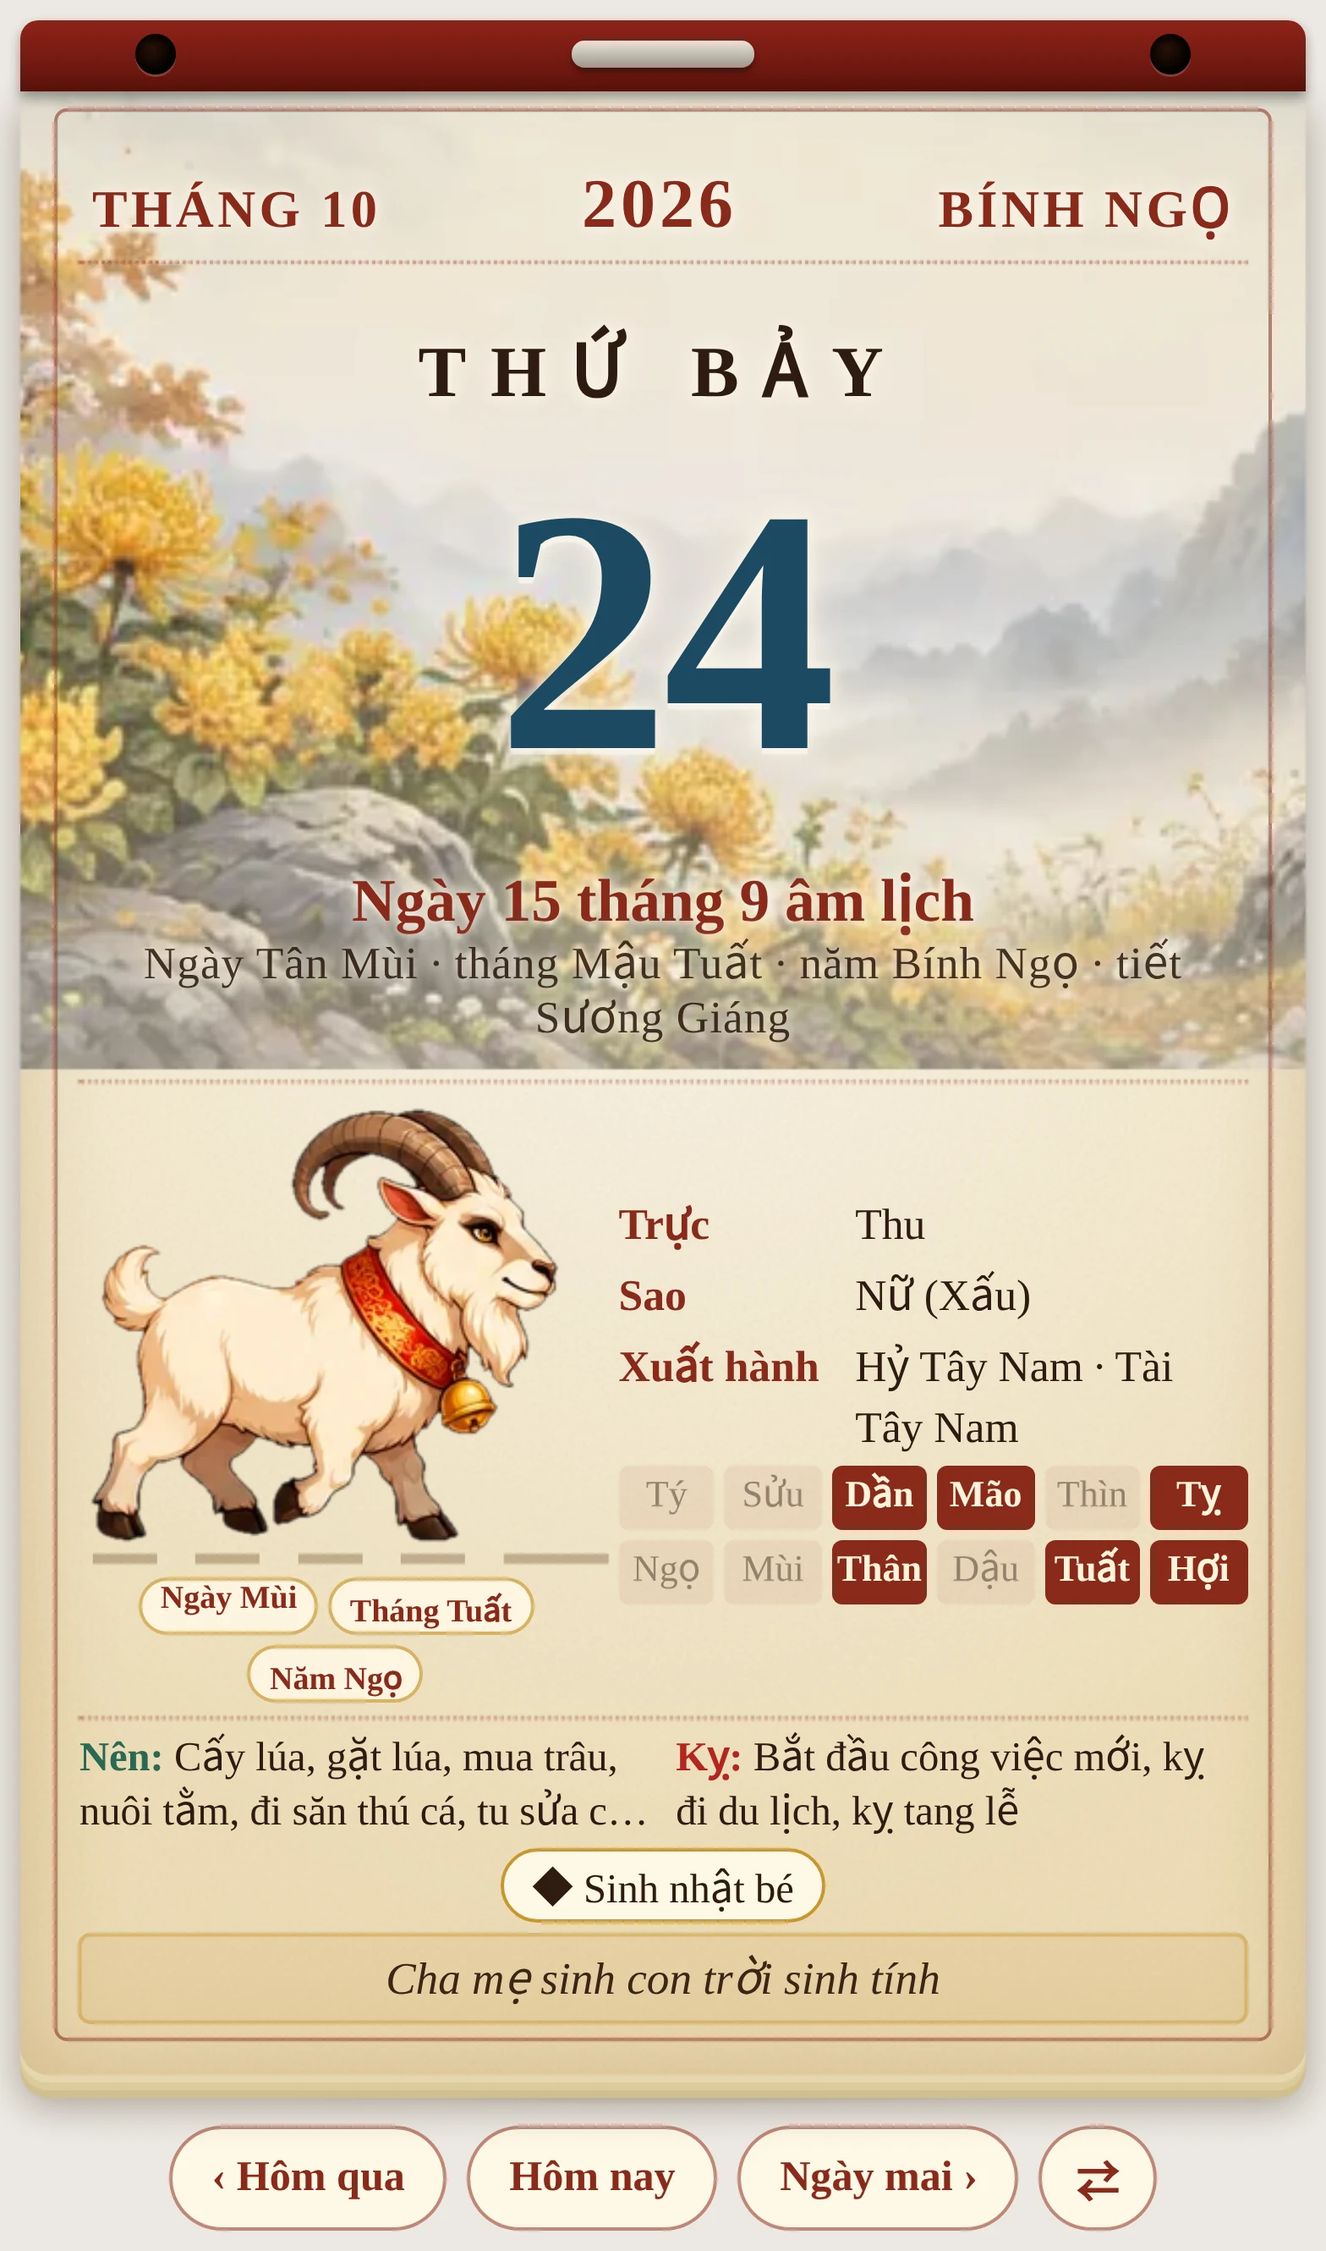
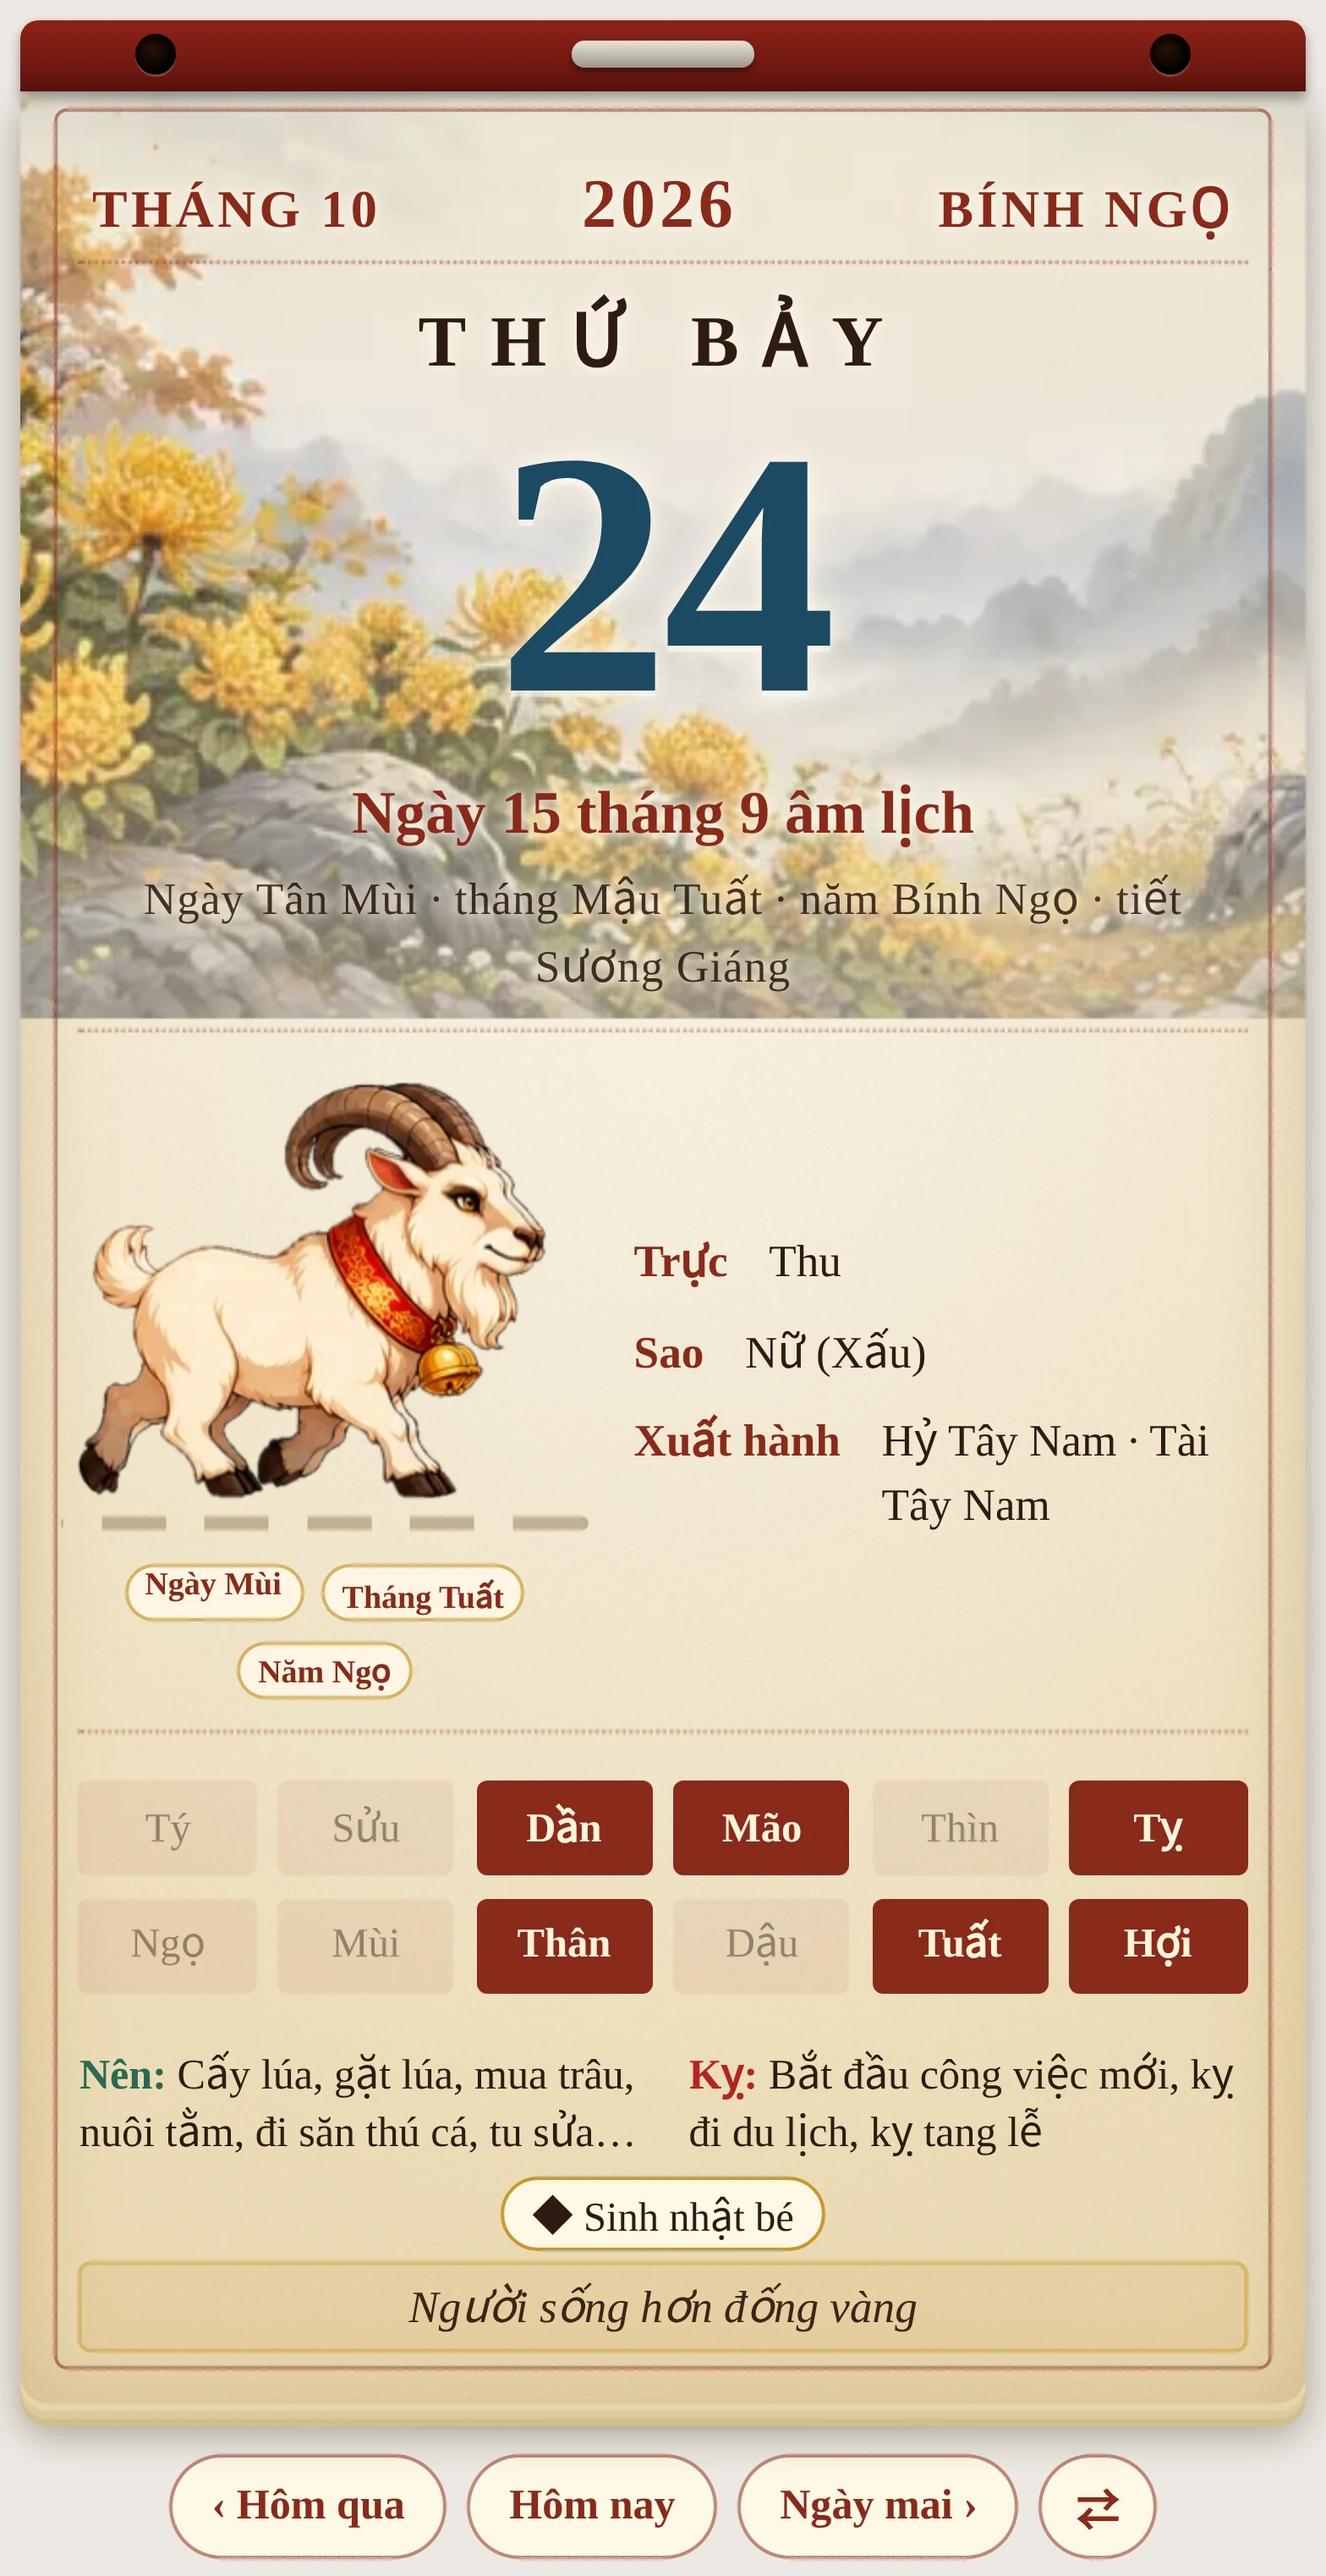
Thẻ: bước đi chậm hẳn (4 khung/giây, mờ chuyển giữa khung) và bố cục giãn hơn
- Con vật đi bộ 4 khung/giây (một vòng 3 giây), ngựa 7; hai lớp sprite lệch một khung và mờ chuyển 1/fps giây để chậm mà vẫn mượt.
- 12 ô giờ hoàng đạo ra hàng riêng rộng cả tờ, chữ căn giữa theo cả hai chiều.
- Khoảng cách giữa số ngày, dòng âm lịch, cột con vật, nhãn thông tin, Nên/Kỵ, ngày lễ và ca dao đều tăng.

Claude-Session: https://claude.ai/code/session_01RuPofRMvzvZPPPoDv3dRha

diff --git a/custom_components/lich_viet/frontend/lich-bloc-xua-card.js b/custom_components/lich_viet/frontend/lich-bloc-xua-card.js
@@ -11,10 +11,10 @@ import { CHI_KHOA, TEN_THU, THU_CSS, veConGiap } from './lich-bloc-xua-thu.js';
 
 const THU_ANH = {
   // mọi sprite sheet: lưới cot × hang khung, phát theo thứ tự; fps là tốc độ khi «chạy»
-  // fps = số khung mỗi giây; chu kỳ 12 khung = 12/fps giây (đi bộ ~2 giây một vòng, ngựa phi ~1,3 giây). Có thể nhân thêm bằng cấu hình toc_do.
-  ngo: { cot: 4, hang: 3, fps: 9 }, ty: { cot: 4, hang: 3, fps: 6 }, suu: { cot: 4, hang: 3, fps: 5 }, dan: { cot: 4, hang: 3, fps: 6 },
-  mao: { cot: 4, hang: 3, fps: 6 }, thin: { cot: 4, hang: 3, fps: 6 }, ran: { cot: 4, hang: 3, fps: 6 }, mui: { cot: 4, hang: 3, fps: 6 },
-  than: { cot: 4, hang: 3, fps: 6 }, ga: { cot: 4, hang: 3, fps: 6 }, cho: { cot: 4, hang: 3, fps: 6 }, heo: { cot: 4, hang: 3, fps: 6 },
+  // fps = số khung mỗi giây; chu kỳ 12 khung = 12/fps giây (đi bộ ~3 giây một vòng, ngựa phi ~1,7 giây). Giữa hai khung có mờ chuyển (crossfade) nên chậm mà vẫn mượt. Có thể nhân thêm bằng cấu hình toc_do.
+  ngo: { cot: 4, hang: 3, fps: 7 }, ty: { cot: 4, hang: 3, fps: 4 }, suu: { cot: 4, hang: 3, fps: 3.5 }, dan: { cot: 4, hang: 3, fps: 4 },
+  mao: { cot: 4, hang: 3, fps: 4 }, thin: { cot: 4, hang: 3, fps: 4 }, ran: { cot: 4, hang: 3, fps: 4 }, mui: { cot: 4, hang: 3, fps: 4 },
+  than: { cot: 4, hang: 3, fps: 4 }, ga: { cot: 4, hang: 3, fps: 4 }, cho: { cot: 4, hang: 3, fps: 4 }, heo: { cot: 4, hang: 3, fps: 4 },
 };
 const GOC = new URL("./thu/", import.meta.url).href;
 const GOC_NEN = new URL("./nen/", import.meta.url).href;
@@ -60,15 +60,23 @@ const gioHienTai = (gio, now) => { const h = now.getHours(); return gio.find((g)
 
 // ---------- hình con giáp: sprite WebP (nếu có), không thì bộ vector dự phòng ----------
 let _uid = 0;
-function keyframesSprite(ten, cot, hang) {
+function keyframesSprite(ten, cot, hang, dich = 0) {
   const n = cot * hang; let s = `@keyframes ${ten}{`;
   for (let i = 0; i < n; i++) {
-    const c = i % cot, r = Math.floor(i / cot);
+    const j = (i + dich) % n, c = j % cot, r = Math.floor(j / cot);
     s += `${(i * 100 / n).toFixed(3)}%{background-position:${cot > 1 ? (c * 100 / (cot - 1)).toFixed(2) : 0}% ${hang > 1 ? (r * 100 / (hang - 1)).toFixed(2) : 0}%}`;
   }
   return s + "}";
 }
-const SPRITE_CSS = Object.entries(THU_ANH).map(([k, v]) => keyframesSprite("sp-" + k, v.cot, v.hang)).join("\n") + `
+const SPRITE_CSS = Object.entries(THU_ANH).map(([k, v]) => keyframesSprite("sp-" + k, v.cot, v.hang) + keyframesSprite("spn-" + k, v.cot, v.hang, 1)).join("\n") + `
+.spx{position:relative;display:block;width:100%}
+.spx>i{position:absolute;inset:0;background-image:var(--bg);background-size:var(--bs);background-repeat:no-repeat;background-position:0 0}
+.spx>i.b{opacity:0}
+.spx.chay>i.a{animation:var(--spa) var(--sd) step-end infinite}
+.spx.chay>i.b{animation:var(--spb) var(--sd) step-end infinite,spx-ramp var(--ft) linear infinite}
+.spx:not(.chay){animation:sp-tho 4.4s ease-in-out infinite;transform-origin:50% 100%}
+.dung .spx>i,.spx.dung>i{animation-play-state:paused}
+@keyframes spx-ramp{from{opacity:0}to{opacity:1}}
 .sp:not(.chay){animation:sp-tho 4.4s ease-in-out infinite;transform-origin:50% 100%}
 .sp{display:block;width:100%;background-repeat:no-repeat;background-position:0 0;image-rendering:auto}
 .sp.chay{animation-name:var(--sp);animation-duration:var(--sd);animation-iteration-count:infinite;animation-timing-function:step-end}
@@ -92,7 +100,8 @@ async function hinhThu(khoa, chay, heSo = 1) {
   const sp = await dongSprite(khoa);
   if (sp) {
     const c = THU_ANH[khoa], n = c.cot * c.hang;
-    return `<div class="sp${chay ? " chay" : ""}" style="aspect-ratio:${sp.rong}/${sp.cao};background-image:url('${GOC}${khoa}.webp');background-size:${c.cot * 100}% ${c.hang * 100}%;--sp:sp-${khoa};--sd:${(n / (c.fps * (+heSo > 0 ? +heSo : 1))).toFixed(3)}s" role="img" aria-label="${esc(TEN_THU[khoa] || "")}"></div>`;
+    const fk = c.fps * (+heSo > 0 ? +heSo : 1);
+    return `<div class="spx${chay ? " chay" : ""}" style="aspect-ratio:${sp.rong}/${sp.cao};--bg:url('${GOC}${khoa}.webp');--bs:${c.cot * 100}% ${c.hang * 100}%;--sd:${(n / fk).toFixed(3)}s;--ft:${(1 / fk).toFixed(3)}s;--spa:sp-${khoa};--spb:spn-${khoa}" role="img" aria-label="${esc(TEN_THU[khoa] || "")}"><i class="a"></i><i class="b"></i></div>`;
   }
   return `<div class="thu ${chay ? "di" : "nghi"}">${veConGiap(khoa, "u" + ++_uid)}</div>`;
 }
@@ -126,11 +135,11 @@ button{font:inherit;color:inherit}
 .dau-to{display:flex;justify-content:space-between;align-items:baseline;font-weight:700;letter-spacing:.07em;color:var(--vien);font-size:4.1cqw;text-transform:uppercase;padding:0 1cqw;border-bottom:.35cqw dotted rgba(138,42,28,.5);padding-bottom:1.1cqw}
 .dau-to b{font-size:5.4cqw;letter-spacing:.06em}
 .thu-ngay{text-align:center;font-weight:800;letter-spacing:.34em;color:var(--muc);font-size:5.6cqw;margin-top:.6cqw;text-transform:uppercase}
-.so{text-align:center;font-family:"Playfair Display","Noto Serif Display","Bodoni MT",Georgia,serif;font-weight:900;font-size:27cqw;line-height:29cqw;height:29cqw;margin-bottom:1.6cqw;font-variant-numeric:lining-nums;color:#241710;text-shadow:0 .5cqw 0 rgba(255,255,255,.55),0 -.2cqw 0 rgba(0,0,0,.18);letter-spacing:-.02em;margin:-.4cqw 0 0}
+.so{text-align:center;font-family:"Playfair Display","Noto Serif Display","Bodoni MT",Georgia,serif;font-weight:900;font-size:27cqw;line-height:29cqw;height:29cqw;margin-bottom:4cqw;font-variant-numeric:lining-nums;color:#241710;text-shadow:0 .5cqw 0 rgba(255,255,255,.55),0 -.2cqw 0 rgba(0,0,0,.18);letter-spacing:-.02em;margin:-.4cqw 0 0}
 .so.do{color:var(--do)}.so.t7{color:#1d4a63}
 .am{text-align:center;font-size:4.7cqw;font-weight:700;color:var(--vien);line-height:1.25}
-.am small{display:block;font-size:3.5cqw;font-weight:500;color:var(--muc);opacity:.85;letter-spacing:.02em}
-.le{margin:.4cqw auto 0;padding:.5cqw 3cqw;border-radius:99px;background:var(--do);color:#fff3d6;font-size:3.5cqw;font-weight:700;letter-spacing:.04em;text-align:center;max-width:92%}
+.am small{display:block;margin-top:1.4cqw;line-height:1.45;font-size:3.5cqw;font-weight:500;color:var(--muc);opacity:.85;letter-spacing:.02em}
+.le{margin:2.4cqw auto 1cqw;padding:.5cqw 3cqw;border-radius:99px;background:var(--do);color:#fff3d6;font-size:3.5cqw;font-weight:700;letter-spacing:.04em;text-align:center;max-width:92%}
 .cot-thu{display:flex;flex-direction:column;align-self:end;min-width:0}
 .cot-thu .canh-thu{align-self:stretch}
 .phan-tren{position:relative;flex:1 1 auto;margin:-5.8cqw -4.6cqw 0;padding:7cqw 4.6cqw 1.6cqw;display:flex;flex-direction:column;justify-content:space-between;gap:.8cqw;background-color:rgba(246,237,214,.0);background-size:cover;background-position:center;border-radius:1.4cqw 1.4cqw 0 0}
@@ -138,25 +147,25 @@ button{font:inherit;color:inherit}
 .phan-tren .dau-to,.phan-tren .thu-ngay,.phan-tren .am,.phan-tren .am small,.phan-tren .le{text-shadow:0 0 .7cqw rgba(252,246,232,1),0 0 1.6cqw rgba(252,246,232,.95),0 0 3cqw rgba(252,246,232,.8)}
 .phan-tren .so{text-shadow:0 0 1.2cqw rgba(252,246,232,1),0 0 3cqw rgba(252,246,232,.9),0 .5cqw 0 rgba(255,255,255,.5)}
 .phan-tren>*{position:relative}
-.khung-thu{position:relative;flex:0 0 auto;min-height:0;display:grid;grid-template-columns:44% 1fr;gap:2cqw;align-items:end;border-top:.35cqw dotted rgba(138,42,28,.45);border-bottom:.35cqw dotted rgba(138,42,28,.45);padding:1cqw 0}
-.canh-thu{position:relative;align-self:end;overflow:visible;padding-bottom:1.2cqw}
+.khung-thu{position:relative;flex:0 0 auto;min-height:0;display:grid;grid-template-columns:42% 1fr;gap:5cqw;align-items:end;border-top:.35cqw dotted rgba(138,42,28,.45);border-bottom:.35cqw dotted rgba(138,42,28,.45);padding:3cqw 0 2.4cqw}
+.canh-thu{position:relative;align-self:end;overflow:visible;padding-bottom:2cqw}
 .canh-thu::after{content:"";position:absolute;left:-4%;right:-4%;bottom:.4cqw;height:.9cqw;border-radius:99px;background:repeating-linear-gradient(90deg,rgba(90,60,20,.45) 0 5cqw,transparent 5cqw 8cqw);animation:duong 2.4s linear infinite;animation-play-state:paused;opacity:.7}
 .chay-on.dang-chay .canh-thu::after{animation-play-state:running}
 @keyframes duong{to{background-position-x:-8cqw}}
 @keyframes sp-tho{0%,100%{transform:scale(1,1)}50%{transform:scale(1.006,1.016)}}
-.hh{display:flex;flex-wrap:wrap;gap:.8cqw;justify-content:center;margin-top:.6cqw;font-size:2.5cqw;font-weight:700;color:var(--vien);white-space:nowrap}
+.hh{display:flex;flex-wrap:wrap;gap:1.4cqw;justify-content:center;margin-top:2.4cqw;font-size:2.5cqw;font-weight:700;color:var(--vien);white-space:nowrap}
 .hh span{white-space:nowrap;background:rgba(255,248,230,.85);border:.25cqw solid rgba(200,150,46,.7);border-radius:99px;padding:.15cqw 1.4cqw}
 .dau-thang .hh{justify-content:flex-end;flex-wrap:wrap;color:#fff1cf}.dau-thang .hh span{background:rgba(0,0,0,.22);border-color:rgba(255,230,160,.6)}
-.thongtin{font-size:3.4cqw;line-height:1.35;display:flex;flex-direction:column;gap:.9cqw;align-self:center}
-.thongtin>div:not(.gio){display:grid;grid-template-columns:minmax(17cqw,max-content) minmax(0,1fr);gap:1.4cqw}
+.thongtin{font-size:3.5cqw;line-height:1.4;display:flex;flex-direction:column;gap:2.2cqw;align-self:center}
+.thongtin>div:not(.gio){display:grid;grid-template-columns:max-content minmax(0,1fr);gap:3.2cqw}
 .thongtin b{color:var(--vien);white-space:nowrap;font-weight:700}
-.gio{display:grid;grid-template-columns:repeat(6,1fr);gap:.8cqw;margin-top:.4cqw}
-.gio span{font-size:2.9cqw;text-align:center;padding:.5cqw 0;border-radius:.8cqw;background:rgba(138,42,28,.07);color:rgba(45,27,16,.45)}
+.gio{display:grid;grid-template-columns:repeat(6,1fr);gap:1.6cqw;margin:3cqw 0 1cqw}
+.gio span{font-size:3.2cqw;display:flex;align-items:center;justify-content:center;height:7.4cqw;line-height:1;text-align:center;padding:0;white-space:nowrap;border-radius:.8cqw;background:rgba(138,42,28,.07);color:rgba(45,27,16,.45)}
 .gio span.hd{background:var(--vien);color:#fff4d9;font-weight:700}
 .gio span.nay{outline:.4cqw solid var(--vang);box-shadow:0 0 0 .3cqw var(--giay);animation:nhap 1.6s ease-in-out infinite;animation-play-state:paused}
 .chay-on .gio span.nay{animation-play-state:running}
 @keyframes nhap{50%{filter:brightness(1.25)}}
-.nenky{font-size:3.2cqw;line-height:1.32;display:grid;grid-template-columns:1fr 1fr;gap:2cqw}
+.nenky{font-size:3.3cqw;line-height:1.4;display:grid;grid-template-columns:1fr 1fr;gap:4cqw;margin-top:2.4cqw}
 .nenky p{margin:0;display:-webkit-box;-webkit-line-clamp:2;-webkit-box-orient:vertical;overflow:hidden}
 .nenky p b{color:var(--xanh)}.nenky p.ky b{color:var(--do)}
 .cadao{display:-webkit-box;-webkit-line-clamp:3;-webkit-box-orient:vertical;overflow:hidden;text-align:center;font-style:italic;font-size:3.5cqw;line-height:1.32;color:#3b2616;padding:1.2cqw 2.4cqw;border-radius:1cqw;background:rgba(200,150,46,.12);box-shadow:inset 0 0 0 .3cqw rgba(200,150,46,.45)}
@@ -269,7 +278,7 @@ class LichBlocXuaCard extends HTMLElement {
   _capNhatChay() {
     const chay = this._hien && !document.hidden && this._cfg.hoat_hoa !== false;
     this._banEl?.classList.toggle("chay-on", chay);
-    this.shadowRoot.querySelectorAll(".thu,.thu-hop,.sp").forEach((e) => e.classList.toggle("dung", !chay));
+    this.shadowRoot.querySelectorAll(".thu,.thu-hop,.sp,.spx").forEach((e) => e.classList.toggle("dung", !chay));
   }
   _kiemTraNgay() {
     const now = new Date();
@@ -288,7 +297,7 @@ class LichBlocXuaCard extends HTMLElement {
     const nghiMs = (+this._cfg.nghi_giay > 0 ? +this._cfg.nghi_giay : 25) * 1000;   // nghỉ bao lâu rồi chạy lại
     const doi = (chay) => {
       this._chayThu = chay; this._banEl?.classList.toggle("dang-chay", chay);
-      this.shadowRoot.querySelectorAll(".sp").forEach((e) => e.classList.toggle("chay", chay));
+      this.shadowRoot.querySelectorAll(".sp,.spx").forEach((e) => e.classList.toggle("chay", chay));
       this.shadowRoot.querySelectorAll(".thu").forEach((e) => { e.classList.toggle("di", chay); e.classList.toggle("nghi", !chay); });
       this._thuTimer = setTimeout(() => doi(!chay), (chay ? chayMs : nghiMs) * (0.9 + Math.random() * 0.2));
     };
@@ -355,9 +364,9 @@ class LichBlocXuaCard extends HTMLElement {
             <div><b>Trực</b><span>${esc(tt.truc)}</span></div>
             <div><b>Sao</b><span>${esc(tt.sao)} ${tt.saoDanhGia ? `(${esc(tt.saoDanhGia.split(" ")[0])})` : ""}</span></div>
             <div><b>Xuất hành</b><span>${esc(tt.huong.replace(/\s*\|.*$/, "").replace("Hỷ Thần:", "Hỷ").replace("- Tài Thần:", "· Tài"))}</span></div>
-            <div class="gio" style="display:grid;margin:0">${gioHtml}</div>
           </div>
         </div>
+        <div class="gio">${gioHtml}</div>
         <div class="nenky"><p><b>Nên:</b> ${esc(tt.tot.split(".")[0] || "—")}</p><p class="ky"><b>Kỵ:</b> ${esc(tt.xau.split(".")[0] || "—")}</p></div>
         <div class="sukien" data-sk="${iso(d)}"></div>
         <div class="cadao">${tt.caDao}</div>
